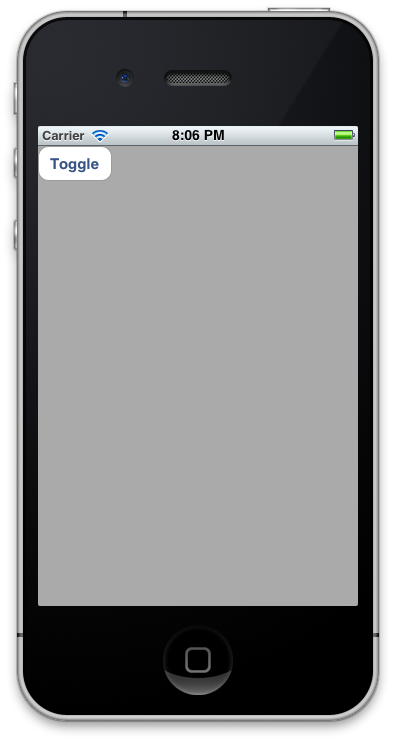
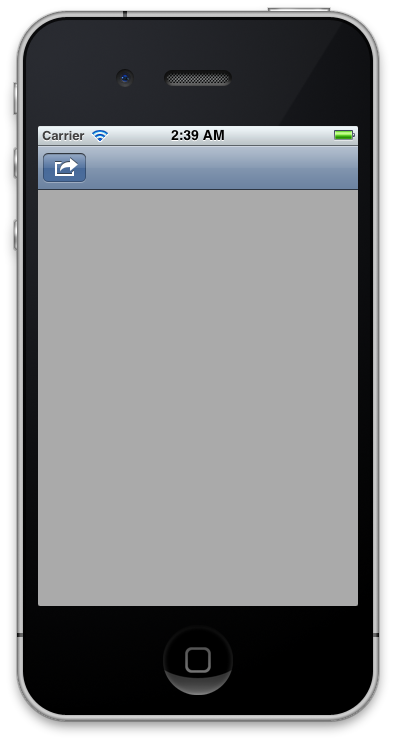
- Demonstrate pushing and popping view controller in content view

Changed region(s): [[0.0909, 0.1546, 0.9091, 0.2782]]

diff --git a/JTRevealSidebar/JTNavigationView.m b/JTRevealSidebar/JTNavigationView.m
@@ -9,6 +9,33 @@
 
 #import "JTNavigationView.h"
 
+#define DEFAULT_NAVIGATION_BAR_HEIGHT 44
+
+@protocol JTNavigationBarDelegate <NSObject>
+@optional
+- (void)willPopNavigationItemAnimated:(BOOL)animated;
+@end
+
+@interface JTNavigationBar : UINavigationBar
+
+@property (nonatomic, assign) id <JTNavigationBarDelegate> delegate2;
+@end
+
+@implementation JTNavigationBar
+@synthesize delegate2;
+
+- (UINavigationItem *)popNavigationItemAnimated:(BOOL)animated {
+    if ([delegate2 respondsToSelector:@selector(willPopNavigationItemAnimated:)]) {
+        [delegate2 willPopNavigationItemAnimated:animated];
+    }
+    return [super popNavigationItemAnimated:animated];
+}
+
+@end
+
+@interface JTNavigationView () <UINavigationBarDelegate, JTNavigationBarDelegate>
+@end
+
 @implementation JTNavigationView
 
 - (id)initWithFrame:(CGRect)frame
@@ -16,11 +43,24 @@
     self = [super initWithFrame:frame];
     if (self) {
         _views = [[NSMutableArray alloc] init];
+
+        _navigationBar = [[JTNavigationBar alloc] initWithFrame:CGRectMake(0, 0, CGRectGetWidth(frame), DEFAULT_NAVIGATION_BAR_HEIGHT)];
+        [(JTNavigationBar *)_navigationBar setDelegate2:self];
+        _navigationBar.autoresizingMask = UIViewAutoresizingFlexibleWidth;
+        [self addSubview:_navigationBar];
+        
+        UINavigationItem *item = [[UINavigationItem alloc] initWithTitle:self.title];
+        [_navigationBar pushNavigationItem:item animated:NO];
+        _navigationItem = item;
+        [item release];
+
+        _navigationViewFlags.isNavigationBarHidden = NO;
     }
     return self;
 }
 
 - (void)dealloc {
+    [_navigationBar release];
     [_views release];
     [super dealloc];
 }
@@ -41,14 +81,26 @@
     if (existView) {
         existView.transform = CGAffineTransformMakeTranslation(-CGRectGetWidth(self.frame), 0);
     }
+    
+    UINavigationItem *item = [[UINavigationItem alloc] initWithTitle:view.title];
+    item.leftBarButtonItem = view.navigationItem.leftBarButtonItem;
+    item.rightBarButtonItem = view.navigationItem.rightBarButtonItem;
+    [_navigationBar.backItem.leftBarButtonItem setTarget:self];
+    [_navigationBar.backItem.leftBarButtonItem setAction:@selector(popViewAnimated:)];
+    [_navigationBar pushNavigationItem:item animated:animated];
+    _navigationBar.delegate = self;
+
+    [item release];
 
     if (animated) {
         [UIView commitAnimations];
     }
 
+    [self setNeedsLayout];
 }
 
-- (UIView *)popViewAnimated:(BOOL)animated {
+
+- (UIView *)popViewAnimated:(BOOL)animated shouldPopNavigationItem:(BOOL)popNavigationItem {
     UIView *view = [_views lastObject];
     [_views removeLastObject];
     UIView *previousView = [_views lastObject];
@@ -70,12 +122,88 @@
     return view;
 }
 
+- (UIView *)popViewAnimated:(BOOL)animated {
+    return [self popViewAnimated:animated shouldPopNavigationItem:YES];
+}
+
 - (UIView *)topView {
     return [_views lastObject];
 }
 
 - (NSArray *)views {
     return _views;
+}
+
+- (void)layoutSubviews {
+    int yOffset = _navigationViewFlags.isNavigationBarHidden ? 0 : DEFAULT_NAVIGATION_BAR_HEIGHT;
+    ((UIView *)[_views lastObject]).frame = CGRectMake(0, yOffset, CGRectGetWidth(self.frame), CGRectGetHeight(self.frame) - yOffset);
+}
+
+// Navigation Bar
+
+- (void)setNavigationBarHidden:(BOOL)hidden animated:(BOOL)animated {
+    if (_navigationViewFlags.isNavigationBarHidden != hidden) {
+        // Only change state when the state is different
+        
+        if (animated) {
+            [UIView beginAnimations:@"" context:nil];
+        }
+        _navigationBar.transform = CGAffineTransformMakeTranslation(0, hidden ? -DEFAULT_NAVIGATION_BAR_HEIGHT : 0);
+        
+        if (animated) {
+            [UIView commitAnimations];
+        }
+        
+        _navigationViewFlags.isNavigationBarHidden = hidden;
+    }
+}
+
+- (UINavigationItem *)navigationItem {
+    return _navigationItem;
+}
+
+//- (BOOL)navigationBar:(UINavigationBar *)navigationBar shouldPopItem:(UINavigationItem *)item {
+//    [self popViewAnimated:YES];
+//    [_navigationBar popNavigationItemAnimated:YES];
+//    [_navigationBar ]
+//    return NO;
+//}
+
+//- (void)navigationBar:(UINavigationBar *)navigationBar didPopItem:(UINavigationItem *)item {
+//    [self popViewAnimated:YES shouldPopNavigationItem:NO];
+//}
+
+- (void)willPopNavigationItemAnimated:(BOOL)animated {
+    [self popViewAnimated:animated shouldPopNavigationItem:NO];
+}
+
+@end
+
+
+#import <objc/runtime.h>
+
+@implementation UIView (UINavigationControllerItem)
+
+static char *navigationItemKey;
+
+- (UINavigationItem *)navigationItem {
+    UINavigationItem *item = objc_getAssociatedObject(self, &navigationItemKey);
+    return item;
+}
+
+- (void)setNavigationItem:(UINavigationItem *)navigationItem {
+    objc_setAssociatedObject(self, &navigationItemKey, navigationItem, OBJC_ASSOCIATION_RETAIN);
+}
+
+static char *titleKey;
+
+- (NSString *)title {
+    NSString *title = objc_getAssociatedObject(self, &titleKey);
+    return title;
+}
+
+- (void)setTitle:(NSString *)title {
+    objc_setAssociatedObject(self, &titleKey, title, OBJC_ASSOCIATION_COPY);
 }
 
 @end

diff --git a/JTRevealSidebarDemo/ViewController.m b/JTRevealSidebarDemo/ViewController.m
@@ -15,6 +15,7 @@
 
 typedef enum {
     JTTableRowTypeBack,
+    JTTableRowTypePushContentView,
 } JTTableRowTypes;
 
 @interface ViewController (UITableView) <JTTableViewDatasourceDelegate>
@@ -54,14 +55,16 @@ typedef enum {
     [_revealView.sidebarView pushView:tableView animated:NO];
 
     // Construct a toggle button for our contentView and add into it
-    UIButton *toggleButton = [UIButton buttonWithType:UIButtonTypeRoundedRect];
-    {
-        [toggleButton setTitle:@"Toggle" forState:UIControlStateNormal];
-        [toggleButton sizeToFit];
-        [toggleButton addTarget:self action:@selector(toggleButtonPressed:) forControlEvents:UIControlEventTouchUpInside];
-    }
-    
-    [_revealView.contentView addSubview:toggleButton];
+//    UIButton *toggleButton = [UIButton buttonWithType:UIButtonTypeRoundedRect];
+//    {
+//        [toggleButton setTitle:@"Toggle" forState:UIControlStateNormal];
+//        [toggleButton sizeToFit];
+//        toggleButton.frame = CGRectOffset(toggleButton.frame, 4, 50);
+//        [toggleButton addTarget:self action:@selector(toggleButtonPressed:) forControlEvents:UIControlEventTouchUpInside];
+//    }
+//    [_revealView.contentView addSubview:toggleButton];
+
+    _revealView.contentView.navigationItem.leftBarButtonItem = [[[UIBarButtonItem alloc] initWithBarButtonSystemItem:UIBarButtonSystemItemAction target:self action:@selector(toggleButtonPressed:)] autorelease];
     
     [self.view addSubview:_revealView];
 }
@@ -96,6 +99,10 @@ typedef enum {
             [JTTableViewDatasource dynamicDatasourceWithDelegate:self
                                                       sourceInfo:
              [NSDictionary dictionaryWithObjectsAndKeys:@"push", @"url", nil]], @"datasource", nil]],
+          
+          [JTTableViewCellModalSimpleType modalWithTitle:@"ViewController1" type:JTTableRowTypePushContentView],
+          [JTTableViewCellModalSimpleType modalWithTitle:@"ViewController2" type:JTTableRowTypePushContentView],
+
           nil]
          ];
     } else if ([url isEqualToString:@"push"]) {
@@ -182,6 +189,15 @@ typedef enum {
                 UITableView *tableView = (UITableView *)[_revealView.sidebarView topView];
                 [tableView deselectRowAtIndexPath:[tableView indexPathForSelectedRow] animated:YES];
                 break;
+            case JTTableRowTypePushContentView:
+            {
+                UIView *view = [[UIView alloc] init];
+                view.backgroundColor = [UIColor redColor];
+                view.title = [(JTTableViewCellModalSimpleType *)object title];
+                [_revealView.contentView pushView:view animated:YES];
+                [view release];
+                [_revealView revealSidebar:NO];
+            }
             default:
                 break;
         }

diff --git a/JTRevealSidebar/JTRevealSidebarView.m b/JTRevealSidebar/JTRevealSidebarView.m
@@ -65,11 +65,12 @@
 
     JTNavigationView *sidebarView = [[[JTNavigationView alloc] initWithFrame:CGRectMake(0, 0, 270, CGRectGetHeight(frame))] autorelease];
     {
+        [sidebarView setNavigationBarHidden:YES animated:NO];
         sidebarView.autoresizingMask = UIViewAutoresizingFlexibleHeight | UIViewAutoresizingFlexibleRightMargin;
         revealView.sidebarView = sidebarView;
     }
     
-    UIView *contentView = [[[UIView alloc] initWithFrame:(CGRect){CGPointZero, frame.size}] autorelease];
+    JTNavigationView *contentView = [[[JTNavigationView alloc] initWithFrame:(CGRect){CGPointZero, frame.size}] autorelease];
     {
         contentView.autoresizingMask = UIViewAutoresizingFlexibleHeight | UIViewAutoresizingFlexibleWidth;
         contentView.backgroundColor = [UIColor lightGrayColor];

diff --git a/JTRevealSidebar/JTNavigationView.h b/JTRevealSidebar/JTNavigationView.h
@@ -11,11 +11,31 @@
 
 @interface JTNavigationView : UIView {
     NSMutableArray *_views;
+    UINavigationBar *_navigationBar;
+    UINavigationItem *_navigationItem;
+    
+    struct {
+        unsigned int isNavigationBarHidden:1;
+    } _navigationViewFlags;
 }
+
 
 - (void)pushView:(UIView *)view animated:(BOOL)animated;
 - (UIView *)popViewAnimated:(BOOL)animated;
 - (UIView *)topView;
 - (NSArray *)views;
+
+// Navigation Bar
+- (void)setNavigationBarHidden:(BOOL)hidden animated:(BOOL)animated;        // Default NO
+
+@end
+
+
+
+@interface UIView (UINavigationControllerItem)
+
+@property(nonatomic, retain) UINavigationItem *navigationItem; // Created on-demand so that a view controller may customize its navigation appearance.
+
+@property (nonatomic, copy) NSString *title;
 
 @end

diff --git a/JTRevealSidebar/JTRevealSidebarView.h b/JTRevealSidebar/JTRevealSidebarView.h
@@ -18,7 +18,7 @@
 }
 
 @property (nonatomic, retain) JTNavigationView *sidebarView;
-@property (nonatomic, retain) UIView *contentView;
+@property (nonatomic, retain) JTNavigationView *contentView;
 
 - (void)revealSidebar:(BOOL)shouldReveal;
 - (BOOL)isSidebarShowing;

diff --git a/README.md b/README.md
@@ -8,7 +8,7 @@ Demo
 ----
 ![Not revealed](https://github.com/mystcolor/JTRevealSidebarDemo/raw/master/demo1.png)
 ![Revealed](https://github.com/mystcolor/JTRevealSidebarDemo/raw/master/demo2.png)
-
+![Pushed ViewController1](https://github.com/mystcolor/JTRevealSidebarDemo/raw/master/demo3.png)
 
 Motivation
 ----------
@@ -68,11 +68,17 @@ Just #import the JTRevealSidebarView.h header, and construct a JTRevealSidebarVi
 
 
 
+Update Logs
+-----------
+
+- Added JTTableViewDatasource
+- Added push/pop mechanism on main content view
+
+
 Potential Future enhancements
 -------------------
 
 - Custom navigation bar
-- Push/Pop view on content view
 - Different styles of tableViewCells
 - Dragging gesture on contentView to toggle sidebar
 - and more.
